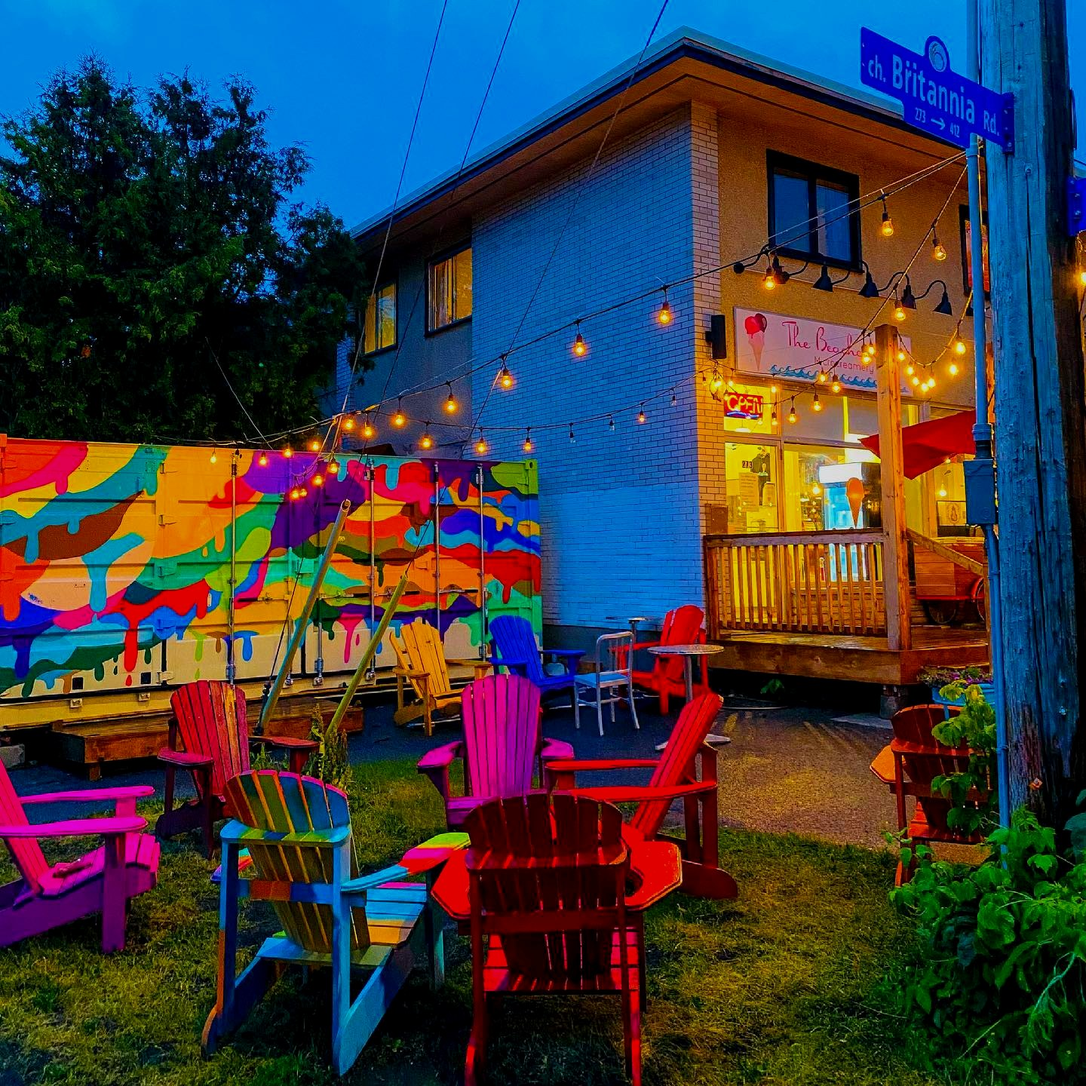
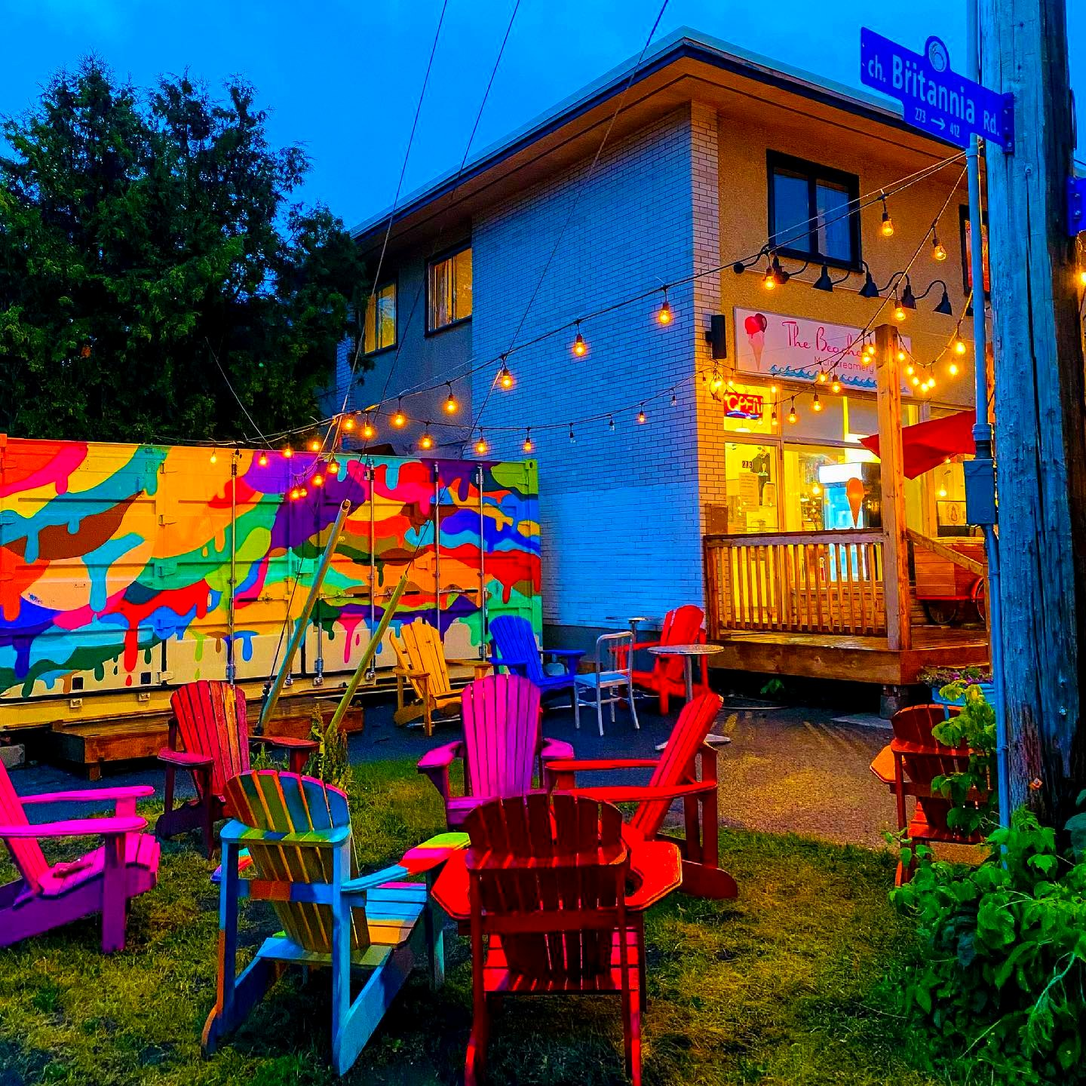
Add files via upload

diff --git a/index.html b/index.html
@@ -93,10 +93,10 @@
       position: absolute; inset: 0;
       background: linear-gradient(
         to bottom,
-        rgba(10,14,26,0.15) 0%,
-        rgba(10,14,26,0.05) 35%,
-        rgba(10,14,26,0.55) 65%,
-        rgba(10,14,26,0.92) 100%
+        rgba(10,14,26,0.05) 0%,
+        rgba(10,14,26,0.0) 25%,
+        rgba(10,14,26,0.35) 60%,
+        rgba(10,14,26,0.85) 100%
       );
     }
     .hero-content {
@@ -508,9 +508,129 @@
       from { opacity: 0; } to { opacity: 1; }
     }
 
+    /* ── GALLERY ───────────────────────────────── */
+    .gallery-section { background: var(--night); padding: 8rem 5rem; }
+    .gallery-intro { max-width: 560px; margin-bottom: 3.5rem; }
+    .gallery-note {
+      font-size: 0.78rem; color: var(--muted); margin-top: 1rem;
+      font-style: italic;
+    }
+    .gallery-grid {
+      display: grid;
+      grid-template-columns: repeat(12, 1fr);
+      grid-template-rows: auto;
+      gap: 12px;
+    }
+    /* Big featured card */
+    .gallery-card {
+      border-radius: 4px; overflow: hidden;
+      position: relative; background: rgba(249,243,232,0.04);
+      border: 1px solid var(--border);
+      transition: transform 0.3s ease;
+    }
+    .gallery-card:hover { transform: scale(1.01); z-index: 2; }
+    .gallery-card:hover .gallery-card-overlay { opacity: 1; }
+    .gallery-card-inner {
+      width: 100%; height: 100%;
+      display: flex; flex-direction: column;
+      align-items: center; justify-content: center;
+      padding: 2.5rem 2rem; text-align: center;
+    }
+    .gallery-card-emoji { font-size: 3.5rem; margin-bottom: 1rem; display: block; }
+    .gallery-card-name {
+      font-family: 'Cormorant Garamond', serif;
+      font-size: 1.3rem; font-weight: 600; color: var(--cream);
+      margin-bottom: 0.4rem;
+    }
+    .gallery-card-desc { font-size: 0.75rem; color: var(--muted); line-height: 1.6; margin-bottom: 0.8rem; }
+    .gallery-card-price {
+      font-family: 'Caveat', cursive;
+      font-size: 1.2rem; color: var(--coral);
+    }
+    .gallery-card-badge {
+      position: absolute; top: 0.8rem; left: 0.8rem;
+      background: var(--butter); color: var(--night);
+      font-size: 0.6rem; font-weight: 700; letter-spacing: 0.08em;
+      text-transform: uppercase; padding: 0.2rem 0.6rem; border-radius: 2px;
+    }
+    /* Color themes per card */
+    .gc-1 { background: linear-gradient(135deg, rgba(232,82,122,0.15), rgba(232,82,122,0.05)); grid-column: span 4; min-height: 260px; }
+    .gc-2 { background: linear-gradient(135deg, rgba(43,191,191,0.15), rgba(43,191,191,0.05)); grid-column: span 4; min-height: 260px; }
+    .gc-3 { background: linear-gradient(135deg, rgba(245,200,66,0.15), rgba(245,200,66,0.05)); grid-column: span 4; min-height: 260px; }
+    .gc-4 { background: linear-gradient(135deg, rgba(196,134,58,0.15), rgba(196,134,58,0.05)); grid-column: span 3; min-height: 220px; }
+    .gc-5 { background: linear-gradient(135deg, rgba(123,94,167,0.15), rgba(123,94,167,0.05)); grid-column: span 3; min-height: 220px; }
+    .gc-6 { background: linear-gradient(135deg, rgba(232,82,122,0.1), rgba(43,191,191,0.1)); grid-column: span 3; min-height: 220px; }
+    .gc-7 { background: linear-gradient(135deg, rgba(245,200,66,0.12), rgba(196,134,58,0.08)); grid-column: span 3; min-height: 220px; }
+    .gc-8 { background: linear-gradient(135deg, rgba(43,191,191,0.12), rgba(10,14,26,0.2)); grid-column: span 4; min-height: 220px; }
+    .gc-9 { background: linear-gradient(135deg, rgba(232,82,122,0.12), rgba(10,14,26,0.2)); grid-column: span 4; min-height: 220px; }
+    .gc-10 { background: linear-gradient(135deg, rgba(123,94,167,0.15), rgba(10,14,26,0.2)); grid-column: span 4; min-height: 220px; }
+
+    /* Upload prompt card */
+    .gc-upload {
+      grid-column: span 12;
+      border: 2px dashed rgba(249,243,232,0.1);
+      background: transparent;
+      display: flex; align-items: center; justify-content: center;
+      padding: 2rem; gap: 1.5rem; min-height: 80px;
+      flex-wrap: wrap;
+    }
+    .gc-upload p { font-size: 0.78rem; color: var(--muted); }
+    .gc-upload a {
+      font-size: 0.72rem; font-weight: 600; letter-spacing: 0.1em;
+      text-transform: uppercase; color: var(--teal); text-decoration: none;
+      border-bottom: 1px solid var(--teal); padding-bottom: 1px;
+    }
+
+    /* ── JOBS ──────────────────────────────────── */
+    .jobs-section {
+      border-top: 1px solid var(--border);
+      padding: 8rem 5rem;
+      background: rgba(249,243,232,0.02);
+    }
+    .jobs-grid { display: grid; grid-template-columns: 1fr 1fr; gap: 2rem; margin-top: 3.5rem; }
+    .job-card {
+      border: 1px solid var(--border); border-radius: 4px;
+      padding: 2.5rem; transition: border-color 0.2s, background 0.2s;
+    }
+    .job-card:hover { border-color: var(--coral); background: rgba(232,82,122,0.04); }
+    .job-tag {
+      font-size: 0.65rem; font-weight: 700; letter-spacing: 0.12em;
+      text-transform: uppercase; color: var(--teal);
+      background: rgba(43,191,191,0.1);
+      padding: 0.25rem 0.7rem; border-radius: 2px;
+      display: inline-block; margin-bottom: 1.2rem;
+    }
+    .job-title {
+      font-family: 'Cormorant Garamond', serif;
+      font-size: 1.6rem; font-weight: 600; color: var(--cream);
+      margin-bottom: 0.8rem;
+    }
+    .job-desc { font-size: 0.82rem; color: var(--muted); line-height: 1.8; margin-bottom: 1.5rem; }
+    .job-details { display: flex; flex-wrap: wrap; gap: 0.8rem; margin-bottom: 1.8rem; }
+    .job-detail {
+      font-size: 0.72rem; color: var(--muted);
+      border: 1px solid var(--border); padding: 0.3rem 0.8rem; border-radius: 2px;
+    }
+    .job-apply {
+      display: inline-flex; align-items: center; gap: 0.5rem;
+      background: var(--coral); color: white;
+      padding: 0.7rem 1.5rem; border-radius: 4px;
+      font-size: 0.75rem; font-weight: 600; letter-spacing: 0.08em;
+      text-transform: uppercase; text-decoration: none;
+      transition: background 0.2s, transform 0.2s;
+    }
+    .job-apply:hover { background: var(--teal); transform: translateY(-1px); }
+    .jobs-note {
+      margin-top: 2rem; padding: 1.5rem 2rem;
+      border: 1px solid rgba(245,200,66,0.2);
+      background: rgba(245,200,66,0.04);
+      border-radius: 4px; font-size: 0.82rem; color: var(--muted);
+    }
+    .jobs-note strong { color: var(--butter); }
+
     /* ── RESPONSIVE ────────────────────────────── */
     @media (max-width: 1024px) {
-      .section, .menu-section, .about-section, .reviews-section, footer { padding-left: 2.5rem; padding-right: 2.5rem; }
+      .section, .menu-section, .about-section, .reviews-section, .gallery-section, .jobs-section, footer { padding-left: 2.5rem; padding-right: 2.5rem; }
       nav { padding: 0 2rem; }
       .hero-content { padding: 0 2.5rem 5rem; }
       .hero-scroll { right: 2.5rem; }
@@ -518,6 +638,9 @@
       .about-stat-card { bottom: 1rem; right: 1rem; }
       .footer-grid { grid-template-columns: 1fr 1fr; gap: 2rem; }
       .coffee-list { grid-template-columns: 1fr; }
+      .gc-1, .gc-2, .gc-3 { grid-column: span 6; }
+      .gc-4, .gc-5, .gc-6, .gc-7 { grid-column: span 6; }
+      .gc-8, .gc-9, .gc-10 { grid-column: span 4; }
     }
     @media (max-width: 768px) {
       nav { padding: 0 1.5rem; height: 72px; }
@@ -530,6 +653,8 @@
       footer { padding: 3rem 1.5rem 2rem; }
       .footer-grid { grid-template-columns: 1fr; }
       .footer-bottom { flex-direction: column; text-align: center; }
+      .gc-1,.gc-2,.gc-3,.gc-4,.gc-5,.gc-6,.gc-7,.gc-8,.gc-9,.gc-10 { grid-column: span 12; }
+      .jobs-grid { grid-template-columns: 1fr; }
     }
   </style>
 </head>
@@ -543,8 +668,10 @@
   <div class="nav-right">
     <ul class="nav-links">
       <li><a href="#menu"><span class="en">Menu</span><span class="fr">Menu</span></a></li>
+      <li><a href="#gallery"><span class="en">Gallery</span><span class="fr">Galerie</span></a></li>
       <li><a href="#about"><span class="en">Our Story</span><span class="fr">Notre Histoire</span></a></li>
       <li><a href="#reviews"><span class="en">Reviews</span><span class="fr">Avis</span></a></li>
+      <li><a href="#jobs"><span class="en">Jobs</span><span class="fr">Emplois</span></a></li>
     </ul>
     <div class="lang-btn">
       <button id="btn-en" class="active" onclick="setLang('en')">EN</button>
@@ -758,6 +885,196 @@
       <span class="en">See all 1,164 reviews on Google</span>
       <span class="fr">Voir tous les 1 164 avis sur Google</span>
     </a>
+  </div>
+</section>
+
+<!-- GALLERY -->
+<section class="gallery-section" id="gallery">
+  <div class="gallery-intro reveal">
+    <div class="section-eyebrow">
+      <span class="en">Our Flavours</span><span class="fr">Nos saveurs</span>
+    </div>
+    <h2 class="section-h2">
+      <span class="en">Made fresh,<br><em>every single day</em></span>
+      <span class="fr">Fait frais,<br><em>chaque jour</em></span>
+    </h2>
+    <p class="gallery-note en">📷 Add your own photos via the admin panel — photos appear here automatically.</p>
+    <p class="gallery-note fr">📷 Ajoutez vos propres photos via le panneau d'administration.</p>
+  </div>
+
+  <div class="gallery-grid" id="gallery-grid">
+    <!-- Top row: 3 big cards -->
+    <div class="gallery-card gc-1 reveal">
+      <div class="gallery-card-inner">
+        <div class="gallery-card-badge en">⭐ Fan Fave</div>
+        <div class="gallery-card-badge fr">⭐ Favori</div>
+        <span class="gallery-card-emoji">🍦</span>
+        <div class="gallery-card-name">Madagascar Vanilla Bean</div>
+        <div class="gallery-card-desc en">Real vanilla beans, slow-churned with Ontario cream.</div>
+        <div class="gallery-card-desc fr">Vraies gousses de vanille, barattées lentement.</div>
+        <div class="gallery-card-price">from $4.50</div>
+      </div>
+    </div>
+    <div class="gallery-card gc-2 reveal">
+      <div class="gallery-card-inner">
+        <span class="gallery-card-emoji">🫐</span>
+        <div class="gallery-card-name">Blueberry Lavender</div>
+        <div class="gallery-card-desc en">Wild blueberries with a floral lavender note.</div>
+        <div class="gallery-card-desc fr">Bleuets sauvages avec une note florale de lavande.</div>
+        <div class="gallery-card-price">from $4.75</div>
+      </div>
+    </div>
+    <div class="gallery-card gc-3 reveal">
+      <div class="gallery-card-inner">
+        <div class="gallery-card-badge">⭐ Must Try</div>
+        <span class="gallery-card-emoji">🍪</span>
+        <div class="gallery-card-name">Snickerdoodle Latte</div>
+        <div class="gallery-card-desc en">Cinnamon sugar sweetness in a velvety espresso latte.</div>
+        <div class="gallery-card-desc fr">Douceur de sucre cannelle dans un latte espresso velouté.</div>
+        <div class="gallery-card-price">$6.00</div>
+      </div>
+    </div>
+
+    <!-- Middle row: 4 medium cards -->
+    <div class="gallery-card gc-4 reveal">
+      <div class="gallery-card-inner">
+        <span class="gallery-card-emoji">🍫</span>
+        <div class="gallery-card-name">Cookie D'OH</div>
+        <div class="gallery-card-desc en">Cookie dough chunks in sweet vanilla cream.</div>
+        <div class="gallery-card-desc fr">Morceaux de pâte à biscuits dans une crème vanille.</div>
+        <div class="gallery-card-price">from $5.00</div>
+      </div>
+    </div>
+    <div class="gallery-card gc-5 reveal">
+      <div class="gallery-card-inner">
+        <span class="gallery-card-emoji">🧇</span>
+        <div class="gallery-card-name en">Hong Kong Waffle</div>
+        <div class="gallery-card-name fr">Gaufre Hong Kong</div>
+        <div class="gallery-card-desc en">Crispy bubble waffle + your choice of scoop.</div>
+        <div class="gallery-card-desc fr">Gaufre bulle croustillante + votre choix de boule.</div>
+        <div class="gallery-card-price">$9.00</div>
+      </div>
+    </div>
+    <div class="gallery-card gc-6 reveal">
+      <div class="gallery-card-inner">
+        <span class="gallery-card-emoji">☕</span>
+        <div class="gallery-card-name">Cold Brew Coffee</div>
+        <div class="gallery-card-desc en">House cold brew churned into ice cream.</div>
+        <div class="gallery-card-desc fr">Cold brew maison transformé en crème glacée.</div>
+        <div class="gallery-card-price">from $4.75</div>
+      </div>
+    </div>
+    <div class="gallery-card gc-7 reveal">
+      <div class="gallery-card-inner">
+        <div class="gallery-card-badge">🌱 Vegan</div>
+        <span class="gallery-card-emoji">🌱</span>
+        <div class="gallery-card-name">Vegan Root Beer</div>
+        <div class="gallery-card-desc en">100% dairy-free. All the flavour, no compromise.</div>
+        <div class="gallery-card-desc fr">100% sans produits laitiers. Toute la saveur.</div>
+        <div class="gallery-card-price">from $4.75</div>
+      </div>
+    </div>
+
+    <!-- Bottom row: 3 cards -->
+    <div class="gallery-card gc-8 reveal">
+      <div class="gallery-card-inner">
+        <span class="gallery-card-emoji">🍁</span>
+        <div class="gallery-card-name">Maple Walnut</div>
+        <div class="gallery-card-desc en">Ontario maple syrup + toasted walnuts.</div>
+        <div class="gallery-card-desc fr">Sirop d'érable ontarien + noix de Grenoble grillées.</div>
+        <div class="gallery-card-price">from $4.75</div>
+      </div>
+    </div>
+    <div class="gallery-card gc-9 reveal">
+      <div class="gallery-card-inner">
+        <span class="gallery-card-emoji">🫖</span>
+        <div class="gallery-card-name">London Fog</div>
+        <div class="gallery-card-desc en">Earl Grey tea-infused cream with vanilla.</div>
+        <div class="gallery-card-desc fr">Crème infusée au thé Earl Grey avec vanille.</div>
+        <div class="gallery-card-price">from $4.75</div>
+      </div>
+    </div>
+    <div class="gallery-card gc-10 reveal">
+      <div class="gallery-card-inner">
+        <span class="gallery-card-emoji">🍦</span>
+        <div class="gallery-card-name">Affogato</div>
+        <div class="gallery-card-desc en">Hot espresso poured over vanilla bean ice cream.</div>
+        <div class="gallery-card-desc fr">Espresso chaud versé sur une boule de vanille.</div>
+        <div class="gallery-card-price">$6.50</div>
+      </div>
+    </div>
+
+    <!-- Upload note -->
+    <div class="gallery-card gc-upload">
+      <p class="en">📸 Have photos of your visit? Share them on Google or Facebook — we'd love to see!</p>
+      <p class="fr">📸 Vous avez des photos de votre visite ? Partagez-les sur Google ou Facebook !</p>
+      <a href="https://www.google.com/maps/place/The+Beachconers+Microcreamery/@45.3656131,-75.7986747,17z/data=!3m1!4b1!4m6!3m5!1s0x4cce01237874e761:0xc3cbb1c760bfce5f!8m2!3d45.3656094!4d-75.7960998!16s%2Fg%2F11c142pcx_?entry=ttu" target="_blank" class="en">Add a photo on Google →</a>
+      <a href="https://www.google.com/maps/place/The+Beachconers+Microcreamery/@45.3656131,-75.7986747,17z/data=!3m1!4b1!4m6!3m5!1s0x4cce01237874e761:0xc3cbb1c760bfce5f!8m2!3d45.3656094!4d-75.7960998!16s%2Fg%2F11c142pcx_?entry=ttu" target="_blank" class="fr">Ajouter une photo sur Google →</a>
+    </div>
+  </div>
+</section>
+
+<!-- JOBS -->
+<section class="jobs-section" id="jobs">
+  <div class="reveal">
+    <div class="section-eyebrow">
+      <span class="en">Join Our Team</span><span class="fr">Rejoignez notre équipe</span>
+    </div>
+    <h2 class="section-h2">
+      <span class="en">Work somewhere<br><em>worth waking up for</em></span>
+      <span class="fr">Travaillez quelque part<br><em>qui en vaut la peine</em></span>
+    </h2>
+  </div>
+
+  <div class="jobs-grid">
+    <div class="job-card reveal">
+      <div class="job-tag en">🍦 Ice Cream</div>
+      <div class="job-tag fr">🍦 Crème glacée</div>
+      <div class="job-title en">Scoop Shop Team Member</div>
+      <div class="job-title fr">Membre de l'équipe</div>
+      <div class="job-desc en">Join our front-of-house team serving handcrafted ice cream, coffee and food to the Ottawa community. We're looking for friendly, enthusiastic people who love great food and great people.</div>
+      <div class="job-desc fr">Rejoignez notre équipe pour servir de la crème glacée artisanale, du café et de la nourriture à la communauté d'Ottawa. Nous cherchons des personnes amicales et enthousiastes.</div>
+      <div class="job-details">
+        <span class="job-detail en">🕐 Part-time & Full-time</span>
+        <span class="job-detail fr">🕐 Temps partiel & plein</span>
+        <span class="job-detail en">📍 273 Britannia Rd</span>
+        <span class="job-detail fr">📍 273 ch. Britannia</span>
+        <span class="job-detail en">☀ Seasonal</span>
+        <span class="job-detail fr">☀ Saisonnier</span>
+      </div>
+      <a href="mailto:hello@thebeachconers.ca?subject=Job Application - Scoop Shop" class="job-apply">
+        <span class="en">Apply Now →</span>
+        <span class="fr">Postuler →</span>
+      </a>
+    </div>
+
+    <div class="job-card reveal">
+      <div class="job-tag en">☕ Coffee</div>
+      <div class="job-tag fr">☕ Café</div>
+      <div class="job-title en">Barista</div>
+      <div class="job-title fr">Barista</div>
+      <div class="job-desc en">We're looking for a skilled and passionate barista to craft specialty espresso drinks alongside our ice cream service. Experience with specialty coffee is preferred, but a genuine love for the craft is essential.</div>
+      <div class="job-desc fr">Nous cherchons un barista qualifié et passionné pour préparer des boissons espresso de spécialité. L'expérience est préférée, mais la passion est essentielle.</div>
+      <div class="job-details">
+        <span class="job-detail en">🕐 Part-time</span>
+        <span class="job-detail fr">🕐 Temps partiel</span>
+        <span class="job-detail en">📍 273 Britannia Rd</span>
+        <span class="job-detail fr">📍 273 ch. Britannia</span>
+        <span class="job-detail en">☀ Seasonal</span>
+        <span class="job-detail fr">☀ Saisonnier</span>
+      </div>
+      <a href="mailto:hello@thebeachconers.ca?subject=Job Application - Barista" class="job-apply">
+        <span class="en">Apply Now →</span>
+        <span class="fr">Postuler →</span>
+      </a>
+    </div>
+  </div>
+
+  <div class="jobs-note reveal">
+    <strong class="en">How to apply:</strong>
+    <strong class="fr">Comment postuler :</strong>
+    <span class="en"> Send your resume and a short note about why you'd love to work with us to <a href="mailto:hello@thebeachconers.ca" style="color:var(--teal)">hello@thebeachconers.ca</a>. We read every application personally.</span>
+    <span class="fr"> Envoyez votre CV et une courte note sur pourquoi vous aimeriez travailler avec nous à <a href="mailto:hello@thebeachconers.ca" style="color:var(--teal)">hello@thebeachconers.ca</a>. Nous lisons chaque candidature personnellement.</span>
   </div>
 </section>
 
